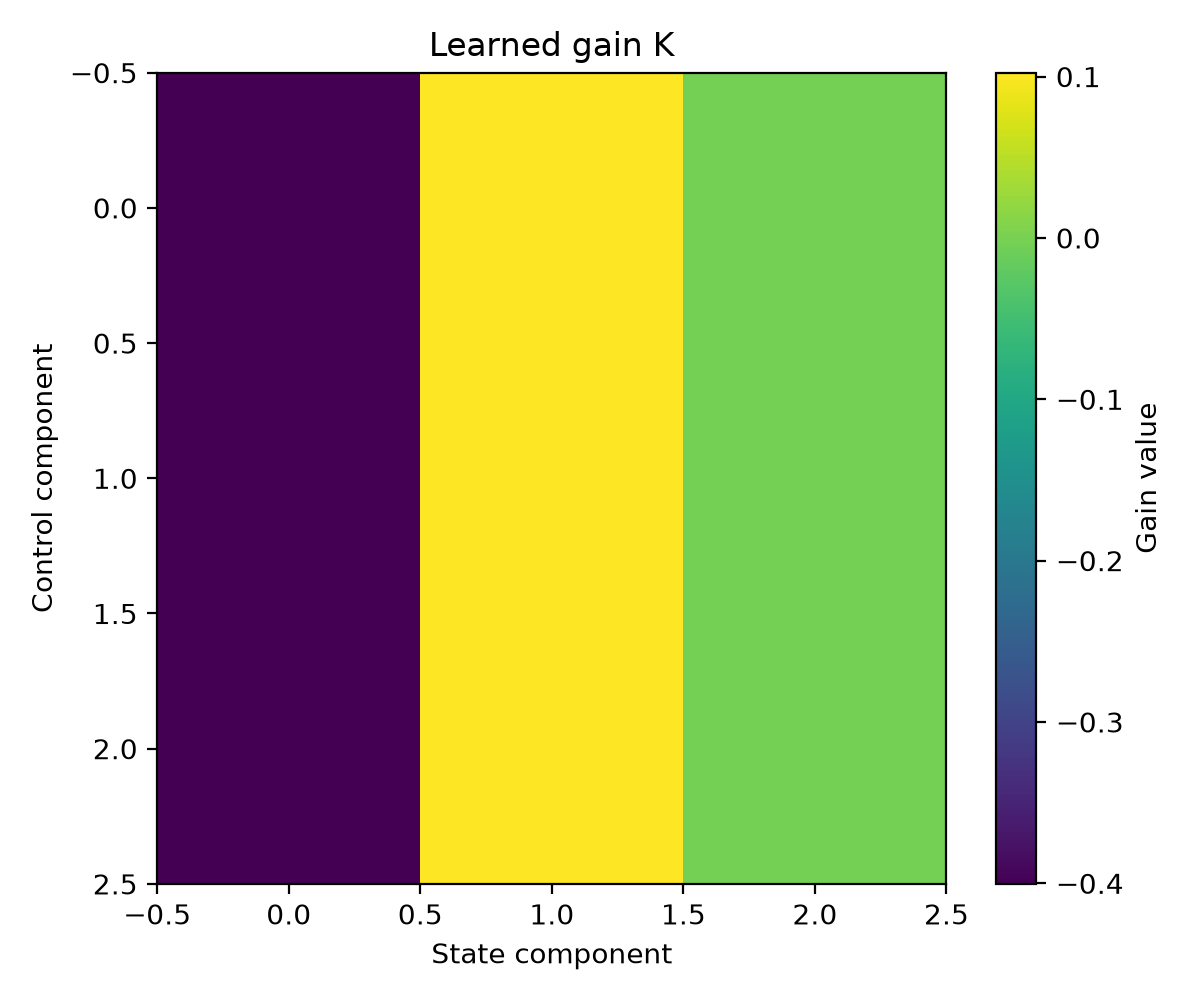
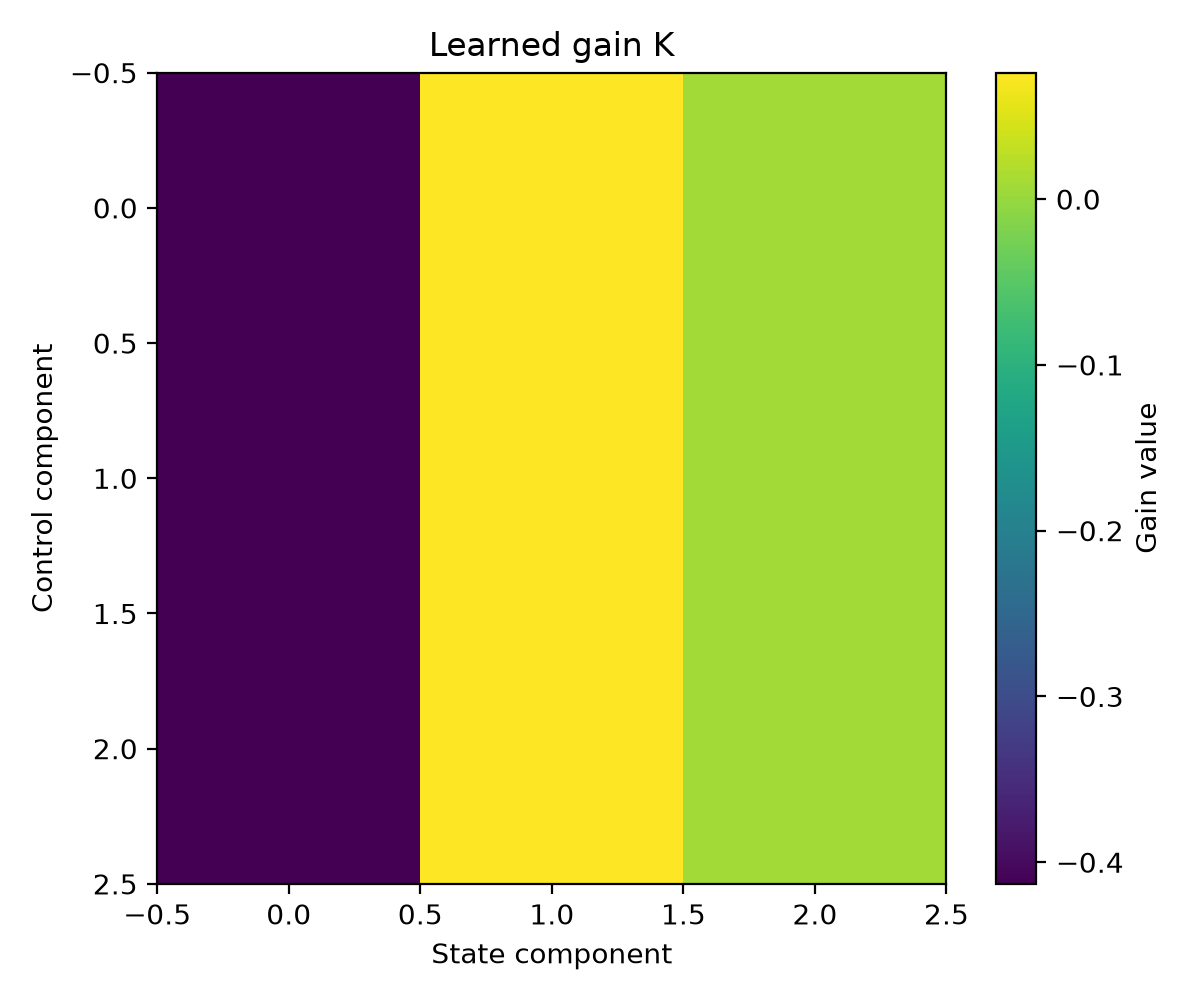
test

diff --git a/deer_constant_k_convergence.py b/deer_constant_k_convergence.py
@@ -36,15 +36,15 @@ from deer_LQR import deer_alg_fixed_j
 SEED = 0
 
 # Start small. Increase later if needed.
-T_HORIZON = 20
-NUM_MC_SAMPLES = 10
+T_HORIZON = 1000
+NUM_MC_SAMPLES = 256
 NUM_POLICY_ITERS = 60
 
 # Fixed-J LQR is affine, so one DEER update is usually enough.
 DEER_MAX_ITERS = 10
 DEER_TOL = 1e-9
 
-INITIAL_STEP_SIZE = 3e-2
+INITIAL_STEP_SIZE = 3e-3
 STABILITY_LIMIT = 0.999
 
 RESAMPLE_EACH_ITERATION = False
